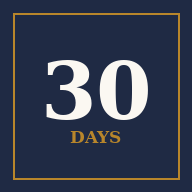
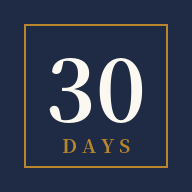
Add files via upload

diff --git a/index.html b/index.html
@@ -11,6 +11,9 @@
 <meta name="apple-mobile-web-app-title" content="30日チャレンジ">
 <link rel="apple-touch-icon" href="icons/icon-192.png">
 <link rel="icon" href="icons/icon-192.png" type="image/png">
+<link rel="preconnect" href="https://fonts.googleapis.com">
+<link rel="preconnect" href="https://fonts.gstatic.com" crossorigin>
+<link href="https://fonts.googleapis.com/css2?family=Noto+Sans+JP:wght@400;500;700&family=Noto+Serif+JP:wght@400;600;700&display=swap" rel="stylesheet">
 <style>
   :root{
     --ink:#1F2A44;
@@ -493,6 +496,51 @@ function cardBackground(level, isPeak){
   return `radial-gradient(circle at 50% 45%, ${isPeak ? '#4a3819' : '#2f3f66'}, #1F2A44 55%, #0d1220)`;
 }
 
+const FONT_SERIF = '"Noto Serif JP", "Hiragino Mincho ProN", serif';
+const FONT_SANS  = '"Noto Sans JP", "Hiragino Kaku Gothic ProN", sans-serif';
+
+// 端末やフォントの読み込み状況で文字の縦幅が変わっても被らないよう、
+// 実測（measureText）しながら上から順に積んでいく
+function drawStackedLine(ctx, text, cx, cursorY, font, color, gapAfter, glow){
+  ctx.font = font;
+  ctx.textAlign = 'center';
+  const m = ctx.measureText(text);
+  const asc = m.actualBoundingBoxAscent || parseInt(font, 10) * 0.85;
+  const desc = m.actualBoundingBoxDescent || parseInt(font, 10) * 0.25;
+  const baseline = cursorY + asc;
+
+  if(glow){
+    ctx.save();
+    ctx.shadowColor = glow.color;
+    ctx.shadowBlur = glow.blur;
+    ctx.fillStyle = color;
+    ctx.fillText(text, cx, baseline);
+    ctx.restore();
+    // ぼかしの外側にも軽くにじませて、光彩をきちんと見せつつ次の行とは被らせない
+  } else {
+    ctx.fillStyle = color;
+    ctx.fillText(text, cx, baseline);
+  }
+  return cursorY + asc + desc + gapAfter;
+}
+
+// canvasで日本語フォントを正しく計測・描画するには、事前に読み込みが終わっている必要がある
+async function ensureFontsLoaded(){
+  if(!(document.fonts && document.fonts.load)) return;
+  try{
+    await Promise.all([
+      document.fonts.load(`30px ${FONT_SERIF}`),
+      document.fonts.load(`bold 260px ${FONT_SERIF}`),
+      document.fonts.load(`bold 54px ${FONT_SERIF}`),
+      document.fonts.load(`26px ${FONT_SERIF}`),
+      document.fonts.load(`42px ${FONT_SANS}`),
+      document.fonts.load(`30px ${FONT_SANS}`),
+      document.fonts.load(`26px ${FONT_SANS}`),
+    ]);
+    await document.fonts.ready;
+  }catch(e){ /* フォント読み込みに失敗しても、フォールバック体で描画を続ける */ }
+}
+
 // CSSカードと同じ見た目を、保存用にcanvasへそのまま再現する
 function drawShareCard(streak){
   const canvas = document.getElementById('shareCanvas');
@@ -527,49 +575,29 @@ function drawShareCard(streak){
   ctx.lineWidth = 2;
   ctx.strokeRect(inset, inset, W-inset*2, H-inset*2);
 
-  ctx.textAlign = 'center';
-
-  ctx.fillStyle = '#B8862B';
-  ctx.font = '30px "Noto Serif JP", serif';
-  ctx.fillText('『影響力の正体』30日チャレンジ', cx, 165);
-
-  // 数字（レベルが上がるほど光彩が強くなる。ただしキッカー文字と被らないよう抑えめに）
-  ctx.save();
-  ctx.shadowColor = '#B8862B';
-  ctx.shadowBlur = 10 + level*6;
-  ctx.fillStyle = '#FBF8F2';
-  ctx.font = 'bold 260px "Noto Serif JP", serif';
-  ctx.fillText(streak, cx, 470);
-  ctx.restore();
-
-  ctx.fillStyle = '#F5EEDD';
-  ctx.font = '42px "Noto Sans JP", sans-serif';
-  ctx.fillText('D A Y S', cx, 565);
-
-  ctx.fillStyle = '#FBF8F2';
-  ctx.font = 'bold 54px "Noto Serif JP", serif';
-  ctx.fillText('連 続 達 成', cx, 650);
-
-  ctx.fillStyle = '#c9d0c2';
-  ctx.font = '30px "Noto Sans JP", sans-serif';
-  ctx.fillText(isPeak ? '30日、走りきりました。' : `残り ${TOTAL - streak} 日`, cx, 722);
+  // 上から順に積み上げて描画（実測レイアウトなので端末・フォント差で被らない）
+  let y = H * 0.15;
+  y = drawStackedLine(ctx, '『影響力の正体』30日チャレンジ', cx, y, `30px ${FONT_SERIF}`, '#B8862B', 46);
+  y = drawStackedLine(ctx, String(streak), cx, y, `bold 260px ${FONT_SERIF}`, '#FBF8F2', 26,
+    { color: '#B8862B', blur: 10 + level*6 });
+  y = drawStackedLine(ctx, 'D A Y S', cx, y, `42px ${FONT_SANS}`, '#F5EEDD', 10);
+  y = drawStackedLine(ctx, '連 続 達 成', cx, y, `bold 54px ${FONT_SERIF}`, '#FBF8F2', 26);
+  y = drawStackedLine(ctx, isPeak ? '30日、走りきりました。' : `残り ${TOTAL - streak} 日`, cx, y, `30px ${FONT_SANS}`, '#c9d0c2', 44);
 
   // divider
   ctx.strokeStyle = 'rgba(184,134,43,0.55)';
   ctx.lineWidth = 1.5;
   ctx.beginPath();
-  ctx.moveTo(cx-120, 788);
-  ctx.lineTo(cx+120, 788);
+  ctx.moveTo(cx-120, y);
+  ctx.lineTo(cx+120, y);
   ctx.stroke();
+  y += 40;
 
-  ctx.fillStyle = 'rgba(251,248,242,0.7)';
-  ctx.font = '26px "Noto Sans JP", sans-serif';
-  ctx.fillText('「知っている」を「できる」に変える30日間', cx, 840);
-  ctx.font = '26px "Noto Serif JP", serif';
-  ctx.fillText('中島侑子', cx, 882);
+  y = drawStackedLine(ctx, '「知っている」を「できる」に変える30日間', cx, y, `26px ${FONT_SANS}`, 'rgba(251,248,242,0.7)', 12);
+  drawStackedLine(ctx, '中島侑子', cx, y, `26px ${FONT_SERIF}`, 'rgba(251,248,242,0.7)', 0);
 }
 
-function showShareCard(streak){
+async function showShareCard(streak){
   const level = streakLevel(streak);
   const isPeak = streak >= TOTAL;
 
@@ -580,12 +608,13 @@ function showShareCard(streak){
   document.getElementById('scRemain').textContent =
     isPeak ? '30日、走りきりました。' : `残り ${TOTAL - streak} 日`;
 
-  // 保存用PNGは同じデザインをcanvasに描画
-  drawShareCard(streak);
-
   document.getElementById('modalTitle').textContent =
     isPeak ? '30日間、走りきりました' : `${streak}日連続、達成です`;
   document.getElementById('modalBg').classList.add('open');
+
+  // 保存用PNGは同じデザインをcanvasに描画（フォント読み込みを待ってから）
+  await ensureFontsLoaded();
+  drawShareCard(streak);
 }
 
 document.getElementById('closeBtn').addEventListener('click', ()=>{
